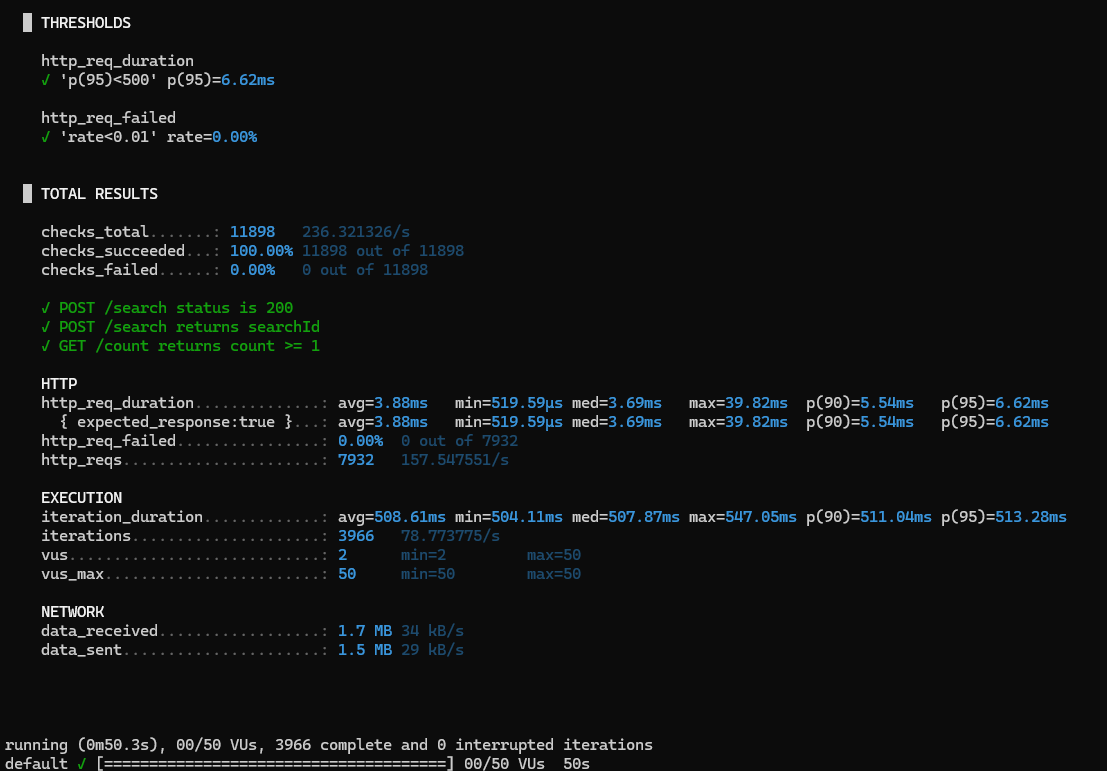
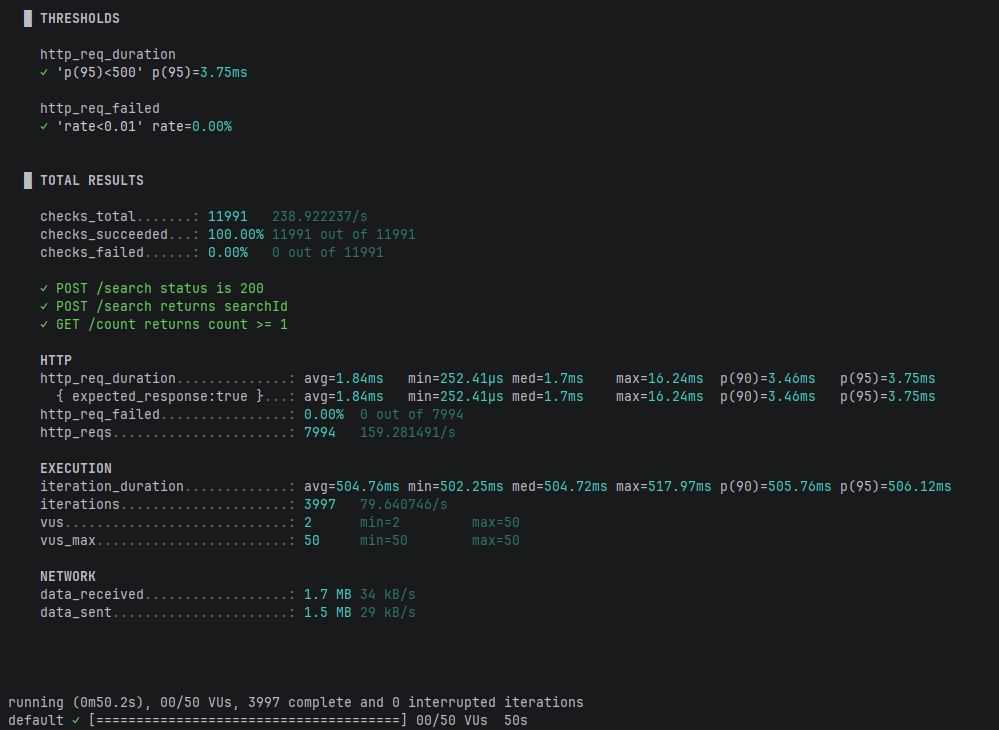
perf: agrego índice compuesto para que la búsqueda de "countMatching" sea más óptima
- Agrego índice compuesto con Flyway
- Actualizo los resultados de performance de k6
- Documento la decisión en README.md

diff --git a/README.md b/README.md
@@ -252,13 +252,13 @@ Tests de carga ejecutados con Grafana k6 (`k6/hotel-search-load-test.js`).
 
 ### Resultados
 
-| Métrica | Resultado | Threshold |
-|---|---|---|
-| p(95) response time | 6.62ms | < 500ms ✅ |
-| Error rate | 0.00% | < 1% ✅ |
-| Throughput | 157 req/s | - |
-| Checks exitosos | 100% (11898/11898) | - |
-| Iteraciones completas | 3966 | - |
+| Métrica               | Resultado          | Threshold |
+|-----------------------|--------------------|-----------|
+| p(95) response time   | 3.75ms             | < 500ms ✅ |
+| Error rate            | 0.00%              | < 1% ✅    |
+| Throughput            | 159 req/s          | -         |
+| Checks exitosos       | 100% (11991/11991) | -         |
+| Iteraciones completas | 3997               | -         |
 
 ![k6 Results](docs/images/k6-results.png)
 
@@ -338,3 +338,15 @@ Las razones principales de este cambio son:
 - **Cobertura completa de cambios:** `ddl-auto: update` sólo agrega tablas y columnas nuevas, pero no se encarga de borrar columnas viejas, no las renombra, no cambia tipos y tampoco borra constraints. Esto puede dejar el schema en estados inconsistentes.
 
 Las migraciones se encuentran en `src/main/resources/db/migration/` y usan timestamps en sus nombres (`V{yyyyMMdd_HHmmss}__descripcion.sql`) en lugar de una numeración incremental (para evitar problemas cuando hay varias personas trabajando sobre esta base de datos en paralelo).
+
+### Índice compuesto en la tabla `hotel_searches`
+
+La query de `countMatching` que utiliza `GET /count` para contar la cantidad de coincidencias exactas de búsqueda filtra por `hotel_id`, `check_in`, `check_out` y `ages`.
+
+Sin un índice apropiado, la base de datos haría un escaneo completo de la tabla para buscar las coincidencias, lo que daría como resultado tiempos de espera cada vez más altos conforme la cantidad de registros crezca.
+
+Para evitar esto, se creó un índice compuesto sobre las cuatro columnas utilizadas para esa búsqueda.
+
+El overhead del índice en los `INSERT` es despreciable (microsegundos), mientras que la mejora en la lectura es muy alta.
+
+El impacto fue medido: en los tests de carga con k6, el `p(95)` bajó de 6.62 ms a 3.75 ms (un 43% de mejora). La diferencia de latencia crece conforme la tabla crece en registros.